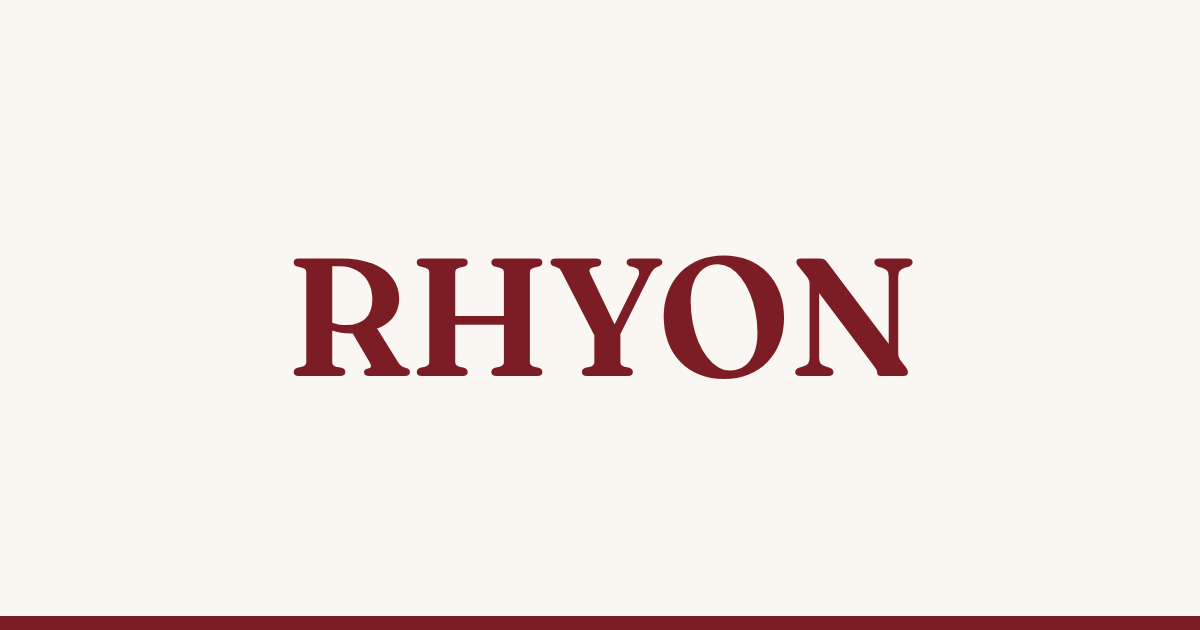
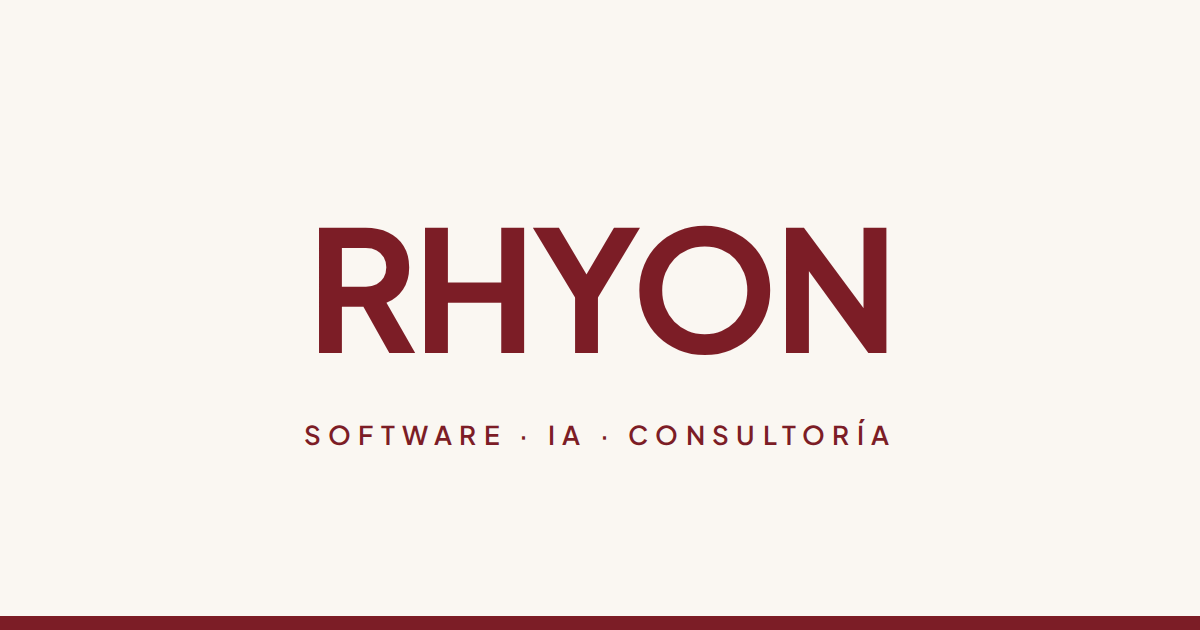
style: identidad de marca provisoria y TODO documentado (#4)
Falta el material de marca (logo, tipografia, hex exactos). Se dejan
placeholders cercanos al Instagram y se documenta que falta:

- Titulos en Plus Jakarta Sans bold, en lugar de Fraunces, mientras llega la
  tipografia real. El rojo se mantiene en #7c1d26, marcado como provisorio.
- og-image y favicon regenerados con la tipografia nueva.
- docs/placeholders.md suma un TODO de identidad de marca: que falta, que se
  usa mientras tanto, donde se cambia y pasos para cuando llegue.
- CLAUDE.md avisa que la identidad es provisoria.

Claude-Session: https://claude.ai/code/session_01GPynTeN5NgczthxF7ikxDS

diff --git a/src/styles/tokens.css b/src/styles/tokens.css
@@ -17,8 +17,9 @@
      (50-200) para fondos y superficies teñidas, los medios (300-600) para
      estados hover y detalles, los oscuros (900-950) para texto sobre claro.
 
-     NOTA: el valor definitivo del logo esta pendiente de confirmacion.
-     Cuando llegue, cambiar brand-800 y reajustar la rampa alrededor.
+     PROVISORIO: el hex exacto de la marca falta confirmar. Cuando llegue,
+     cambiar brand-800, reajustar la rampa alrededor y actualizar
+     site.themeColor. Ver docs/placeholders.md.
      ---------------------------------------------------------------------- */
   --color-brand-50: #fdf4f3;
   --color-brand-100: #fbe7e5;
@@ -67,12 +68,15 @@
   /* ------------------------------------------------------------------------
      TIPOGRAFIA
      ------------------------------------------------------------------------
-     Fraunces (serif variable) para titulos: carácter editorial, acompaña bien
-     al rojo Torino. Inter para texto: neutra y muy legible en tamaños chicos.
-     Ambas se sirven desde el propio dominio via @fontsource (ver global.css),
-     no desde un CDN externo.
+     Plus Jakarta Sans para titulos, Inter para texto. Ambas se sirven desde el
+     propio dominio via @fontsource (ver global.css), no desde un CDN externo.
+
+     PROVISORIO: la marca usa una sans geometrica bold cuyo nombre falta
+     confirmar. Plus Jakarta Sans es la alternativa gratuita mas cercana; al
+     llegar la real, cambiar --font-display y su import en global.css. Ver
+     docs/placeholders.md.
      ---------------------------------------------------------------------- */
-  --font-display: 'Fraunces Variable', 'Iowan Old Style', Georgia, serif;
+  --font-display: 'Plus Jakarta Sans Variable', system-ui, -apple-system, sans-serif;
   --font-sans: 'Inter Variable', system-ui, -apple-system, sans-serif;
   --font-mono: ui-monospace, 'SF Mono', 'Cascadia Code', monospace;
 

diff --git a/src/styles/global.css b/src/styles/global.css
@@ -6,7 +6,7 @@
 
 /* Tipografias servidas desde nuestro propio dominio, no desde un CDN.
    Evita una conexion a terceros y el salto de fuente al cargar. */
-@import '@fontsource-variable/fraunces';
+@import '@fontsource-variable/plus-jakarta-sans';
 @import '@fontsource-variable/inter';
 
 @import './tokens.css';

diff --git a/docs/placeholders.md b/docs/placeholders.md
@@ -1,20 +1,45 @@
 # Guía de placeholders
 
-Imágenes provisorias que están en producción hasta que lleguen las
-definitivas. Todas usan los colores de los tokens (rojo Torino sobre crema) para
-que el sitio se vea coherente mientras tanto.
+Lo que está en producción de forma provisoria hasta que llegue lo definitivo:
+la identidad de marca (logo, tipografía, colores) y las imágenes.
 
-Al reemplazar una, se sobrescribe el archivo con el mismo nombre y se borra su
-fila de esta tabla. Cuando la tabla quede vacía, este archivo se borra.
+Al reemplazar algo, se borra su fila de las tablas. Cuando no quede ninguna,
+este archivo se borra.
 
-## Pendientes
+## TODO: identidad de marca
+
+Falta el material de marca. Mientras tanto, el sitio usa aproximaciones
+tomadas del Instagram ([@whearerhyon](https://www.instagram.com/whearerhyon/)).
+
+| Falta                          | Qué se usa mientras tanto                                       | Dónde se cambia                                                             |
+| ------------------------------ | --------------------------------------------------------------- | --------------------------------------------------------------------------- |
+| **Logo** en SVG: isotipo solo y con "RHYON" | El nombre escrito en texto (`site.name`) con la tipografía de títulos, en bold. Sin isotipo. | `Header.astro` y `Footer.astro` (hoy muestran texto), `favicon.svg`, `og-image.png`, `logo` en `src/lib/seo.ts` |
+| **Tipografía** de títulos: nombre y licencia | Plus Jakarta Sans, la sans geométrica gratuita más parecida a la de los posts | `--font-display` en `src/styles/tokens.css` y su `@import` en `src/styles/global.css` |
+| **Hex del rojo** de la marca   | `#7c1d26`. Las capturas del Instagram sugieren un rojo algo más vivo. | `--color-brand-800` en `tokens.css` (y reajustar la rampa `brand-*`), `site.themeColor` en `src/lib/site.ts`, `favicon.svg` |
+| **Hex del fondo oscuro**       | `sand-950` (`#1a1613`) como `surface-inverse`                   | `--color-sand-950` o el token `--surface-inverse` en `global.css`            |
+
+### Al llegar el material
+
+1. **Tipografía.** Si es gratuita y está en `@fontsource`, instalar el paquete
+   `@fontsource-variable/<nombre>` y reemplazar el de Plus Jakarta Sans. Si es
+   paga, pedir los archivos `.woff2` y la licencia para web, y servirlos desde
+   `public/fonts/`.
+2. **Rojo.** Cambiar `--color-brand-800` y rehacer la rampa `brand-*` a su
+   alrededor. Verificar contraste de texto sobre `accent` y de `accent` sobre
+   crema (mínimo 4.5:1). Actualizar `site.themeColor`.
+3. **Logo.** Guardar los SVG en `src/assets/` y reemplazar el texto de
+   `Header` y `Footer` por el logo, con `aria-label` con el nombre. Rehacer el
+   favicon con el isotipo.
+4. Rehacer `og-image.png` con el logo y la tipografía reales.
+5. Revisar el `/styleguide` completo: se genera desde los tokens, así que
+   refleja todo el cambio.
+
+## Imágenes
 
 | Archivo              | Dónde se usa                                     | Formato                        | Placeholder actual                      |
 | -------------------- | ------------------------------------------------ | ------------------------------ | --------------------------------------- |
-| `public/og-image.png` | Preview al compartir (WhatsApp, LinkedIn, X). `site.ogImage` en `src/lib/site.ts`. | PNG o JPG, **1200×630**, < 300 KB | "RHYON" en Fraunces sobre crema, barra roja abajo |
-| `public/favicon.svg` | Pestaña del navegador y `logo` del JSON-LD (`src/lib/seo.ts`). | SVG cuadrado, legible a 16 px | "R" crema sobre cuadrado rojo Torino    |
-
-## Cómo reemplazar cada una
+| `public/og-image.png` | Preview al compartir (WhatsApp, LinkedIn, X). `site.ogImage` en `src/lib/site.ts`. | PNG o JPG, **1200×630**, < 300 KB | "RHYON" en Plus Jakarta Sans y "Software · IA · Consultoría" sobre crema, con una barra roja abajo |
+| `public/favicon.svg` | Pestaña del navegador y `logo` del JSON-LD (`src/lib/seo.ts`). | SVG cuadrado, legible a 16 px | "R" crema en sans bold sobre un cuadrado rojo Torino |
 
 ### `og-image.png`
 
@@ -34,8 +59,6 @@ fila de esta tabla. Cuando la tabla quede vacía, este archivo se borra.
   usar solo el isotipo.
 - Los colores van escritos dentro del SVG: el favicon no lee los tokens CSS.
   Usar los mismos hex de `src/styles/tokens.css`.
-- Si llega el logo definitivo, confirmar también el hex de
-  `--color-brand-800` y de `site.themeColor` (ver README → Pendientes).
 
 ## Agregar un placeholder nuevo
 
@@ -46,4 +69,4 @@ Si una sección necesita una imagen que todavía no existe:
    reemplazarlo no hay que tocar código.
 2. Usar los colores de los tokens, no un gris genérico ni una imagen de stock.
 3. Darle un `alt` real desde el principio, pensado para la imagen definitiva.
-4. Agregar una fila a la tabla de arriba.
+4. Agregar una fila a la tabla de imágenes.

diff --git a/README.md b/README.md
@@ -100,7 +100,8 @@ puede forzarse con `data-theme="dark"` en `<html>`. El sitio nace en claro.
 
 ### Tipografía
 
-- **Fraunces** (serif variable) para títulos — carácter editorial, acompaña al rojo Torino.
+- **Plus Jakarta Sans** para títulos — sans geométrica, **provisoria** hasta confirmar
+  la tipografía de la marca (ver [docs/placeholders.md](./docs/placeholders.md)).
 - **Inter** para texto — legible en tamaños chicos y párrafos largos.
 
 Ambas se sirven desde el propio dominio vía `@fontsource`, no desde un CDN
@@ -191,10 +192,10 @@ Las IPs vigentes están en la
 
 ## Pendientes
 
-- [ ] Confirmar el hex exacto del logo y ajustar `--color-brand-800`
-- [ ] Completar `src/lib/site.ts`: descripción, contacto, redes, navegación
-- [ ] Reemplazar las imágenes provisorias (favicon y og-image): ver
+- [ ] Recibir la identidad de marca (logo en SVG, tipografía, hex del rojo y
+      del fondo oscuro) y reemplazar los provisorios: ver
       [docs/placeholders.md](./docs/placeholders.md)
+- [ ] Completar `src/lib/site.ts`: descripción, contacto, redes, navegación
 - [ ] Construir la landing
 - [ ] Conectar el dominio propio
 

diff --git a/CLAUDE.md b/CLAUDE.md
@@ -34,6 +34,11 @@ nunca animación que retrase la lectura.
 El color de marca es el **rojo Torino** (`brand-800`, `#7c1d26`). Se usa con
 moderación: acentos y acciones, no superficies grandes.
 
+**La identidad de marca es provisoria.** Falta el logo, la tipografía y los hex
+exactos; mientras tanto se usan aproximaciones. Antes de tocar color,
+tipografía, logo o imágenes, leer `docs/placeholders.md`: dice qué falta, qué
+se usa en su lugar y dónde se cambia.
+
 ## Reglas innegociables
 
 - **Los colores salen de los tokens.** Nunca un hex ni un `bg-[#...]` en un

diff --git a/.claude/rules/diseno.md b/.claude/rules/diseno.md
@@ -91,7 +91,7 @@ espaciado queda declarado en el contenedor y no disperso en cada hijo.
 
 ## Tipografía
 
-`font-display` (Fraunces) para títulos, `font-sans` (Inter) para el resto. No
+`font-display` (Plus Jakarta Sans, provisoria) para títulos, `font-sans` (Inter) para el resto. No
 mezclar.
 
 Los tamaños de título salen de la escala `text-display-*` vía el componente
